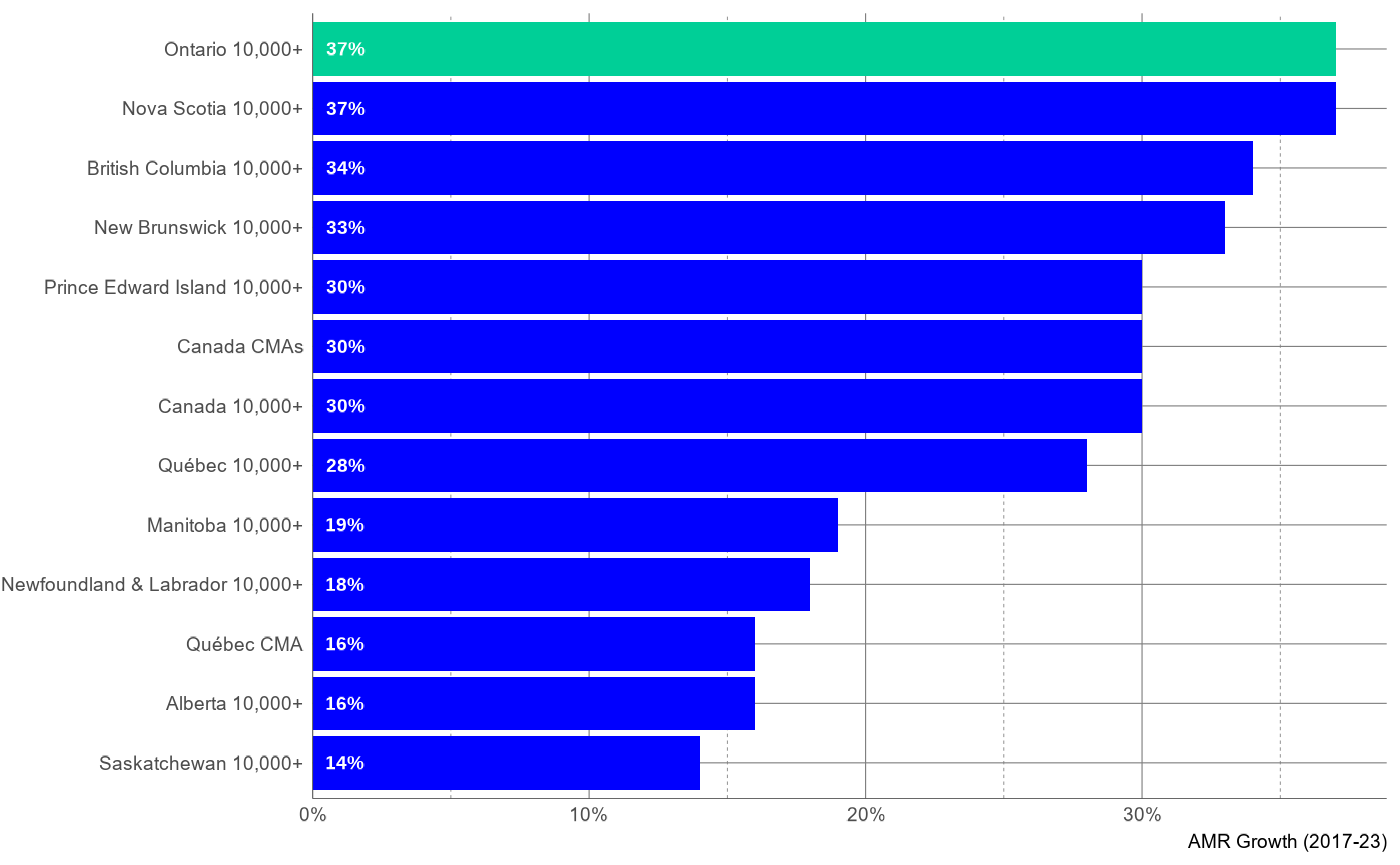
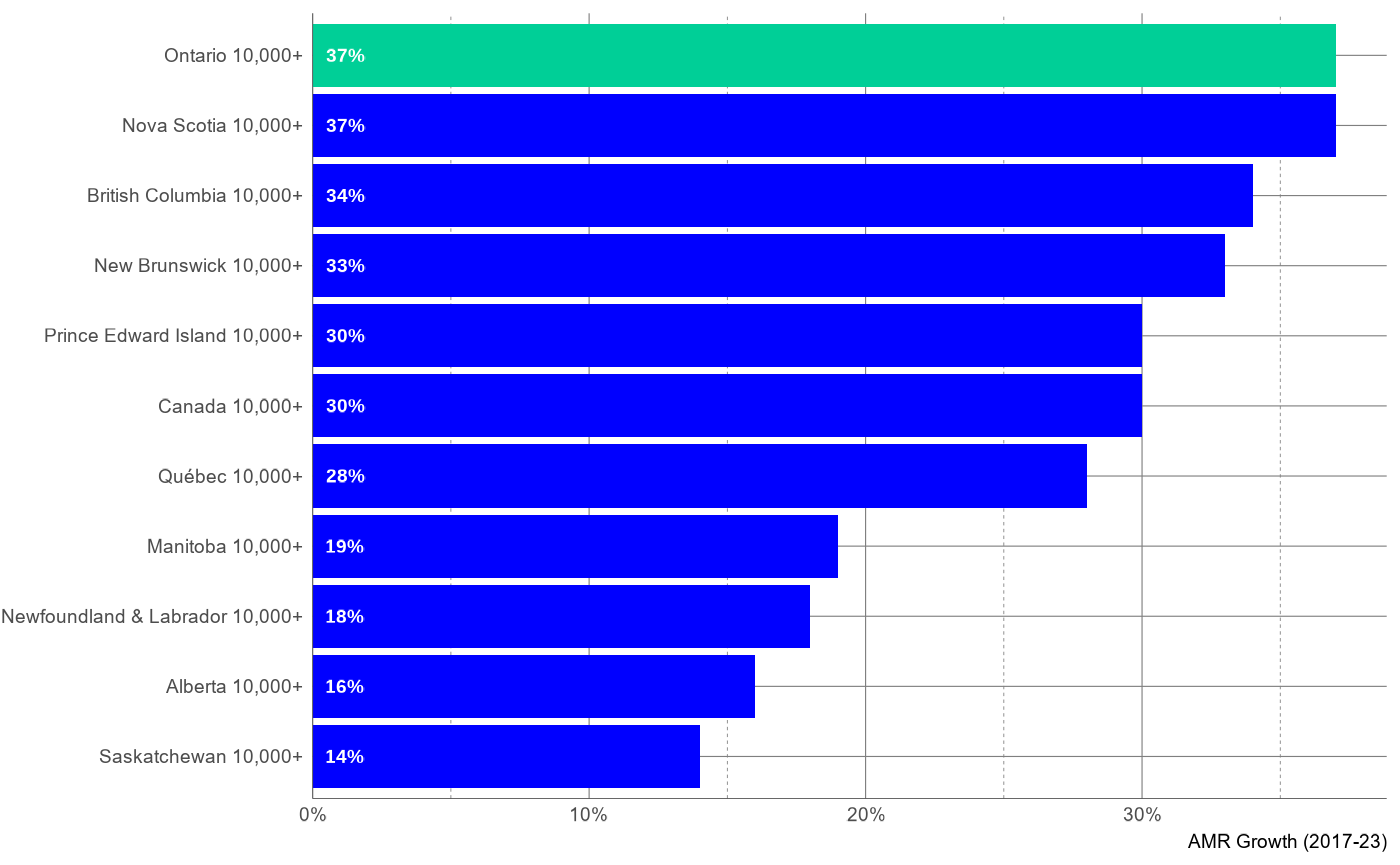
Deploying to gh-pages from @ context-dependent/rms@3a177449a61c2be11dd8cb4e7780b94177203c27 🚀

diff --git a/articles/peterborough.html b/articles/peterborough.html
@@ -128,7 +128,11 @@ two-bedroom apartment in Ontario increased by 37%, tied for the highest
 proportional increase with Nova Scotia.</p>
 <div class="sourceCode" id="cb4"><pre class="downlit sourceCode r">
 <code class="sourceCode R"><span><span class="va">rmr_t1</span> <span class="op">|&gt;</span> </span>
-<span>  <span class="fu"><a href="https://dplyr.tidyverse.org/reference/filter.html" class="external-link">filter</a></span><span class="op">(</span><span class="va">year</span> <span class="op">==</span> <span class="fl">2023</span>, <span class="va">centre</span> <span class="op">|&gt;</span> <span class="fu"><a href="https://stringr.tidyverse.org/reference/str_detect.html" class="external-link">str_detect</a></span><span class="op">(</span><span class="va">province</span><span class="op">)</span><span class="op">)</span> <span class="op">|&gt;</span></span>
+<span>  <span class="fu"><a href="https://dplyr.tidyverse.org/reference/filter.html" class="external-link">filter</a></span><span class="op">(</span></span>
+<span>    <span class="va">year</span> <span class="op">==</span> <span class="fl">2023</span>, </span>
+<span>    <span class="va">centre</span> <span class="op">|&gt;</span> <span class="fu"><a href="https://stringr.tidyverse.org/reference/str_detect.html" class="external-link">str_detect</a></span><span class="op">(</span><span class="va">province</span><span class="op">)</span>,</span>
+<span>    <span class="va">centre</span> <span class="op">|&gt;</span> <span class="fu"><a href="https://stringr.tidyverse.org/reference/str_detect.html" class="external-link">str_detect</a></span><span class="op">(</span><span class="st">"10"</span><span class="op">)</span></span>
+<span>  <span class="op">)</span> <span class="op">|&gt;</span></span>
 <span>  <span class="fu"><a href="https://dplyr.tidyverse.org/reference/arrange.html" class="external-link">arrange</a></span><span class="op">(</span><span class="va">amr_2br_indexed_17</span><span class="op">)</span> <span class="op">|&gt;</span> </span>
 <span>  <span class="fu"><a href="https://dplyr.tidyverse.org/reference/mutate.html" class="external-link">mutate</a></span><span class="op">(</span>centre <span class="op">=</span> <span class="fu"><a href="https://forcats.tidyverse.org/reference/fct_inorder.html" class="external-link">fct_inorder</a></span><span class="op">(</span><span class="va">centre</span><span class="op">)</span><span class="op">)</span> <span class="op">|&gt;</span>  </span>
 <span>  <span class="fu"><a href="https://ggplot2.tidyverse.org/reference/ggplot.html" class="external-link">ggplot</a></span><span class="op">(</span><span class="fu"><a href="https://ggplot2.tidyverse.org/reference/aes.html" class="external-link">aes</a></span><span class="op">(</span><span class="va">amr_2br_indexed_17</span> <span class="op">-</span> <span class="fl">100</span>, <span class="va">centre</span><span class="op">)</span><span class="op">)</span> <span class="op">+</span> </span>
